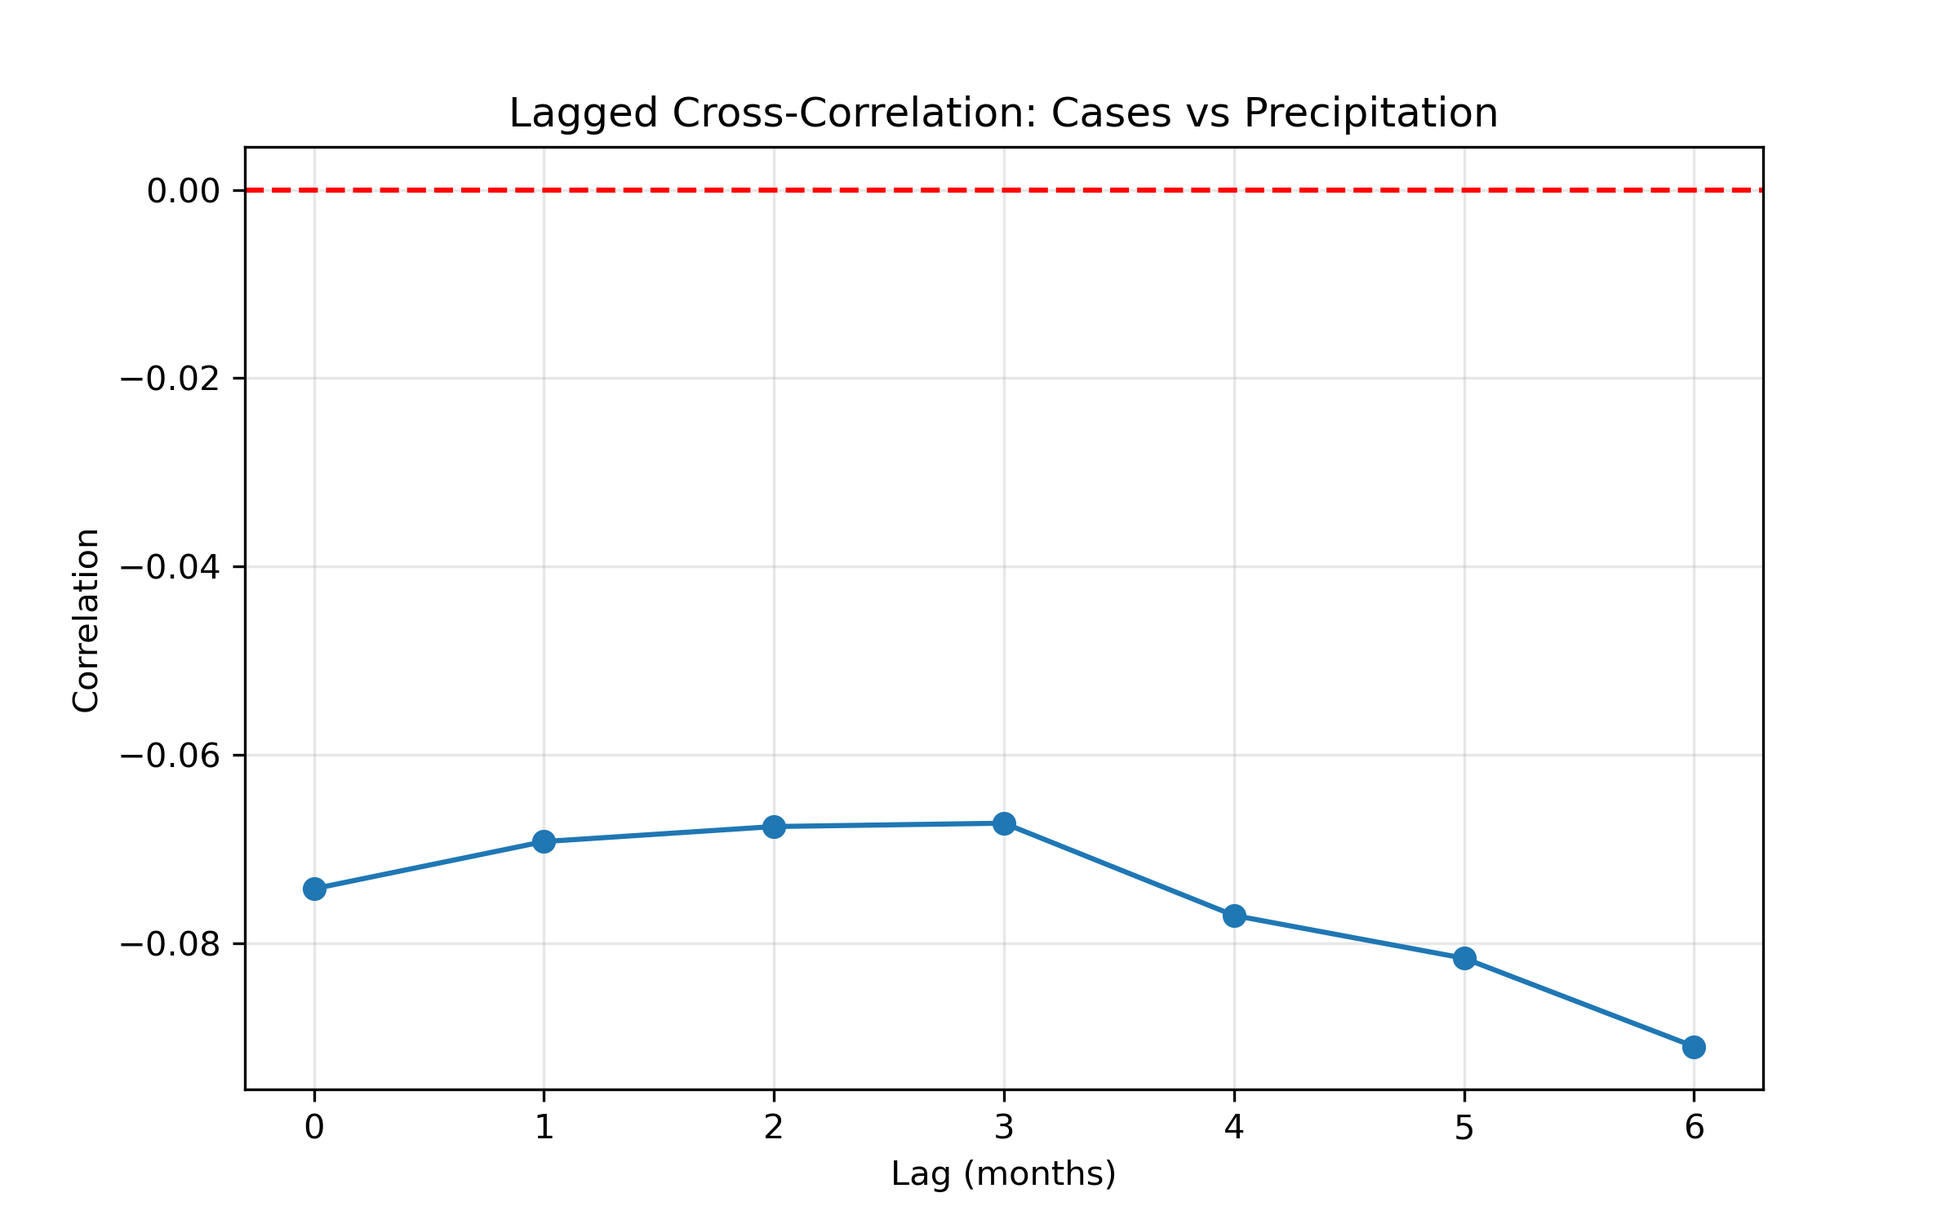
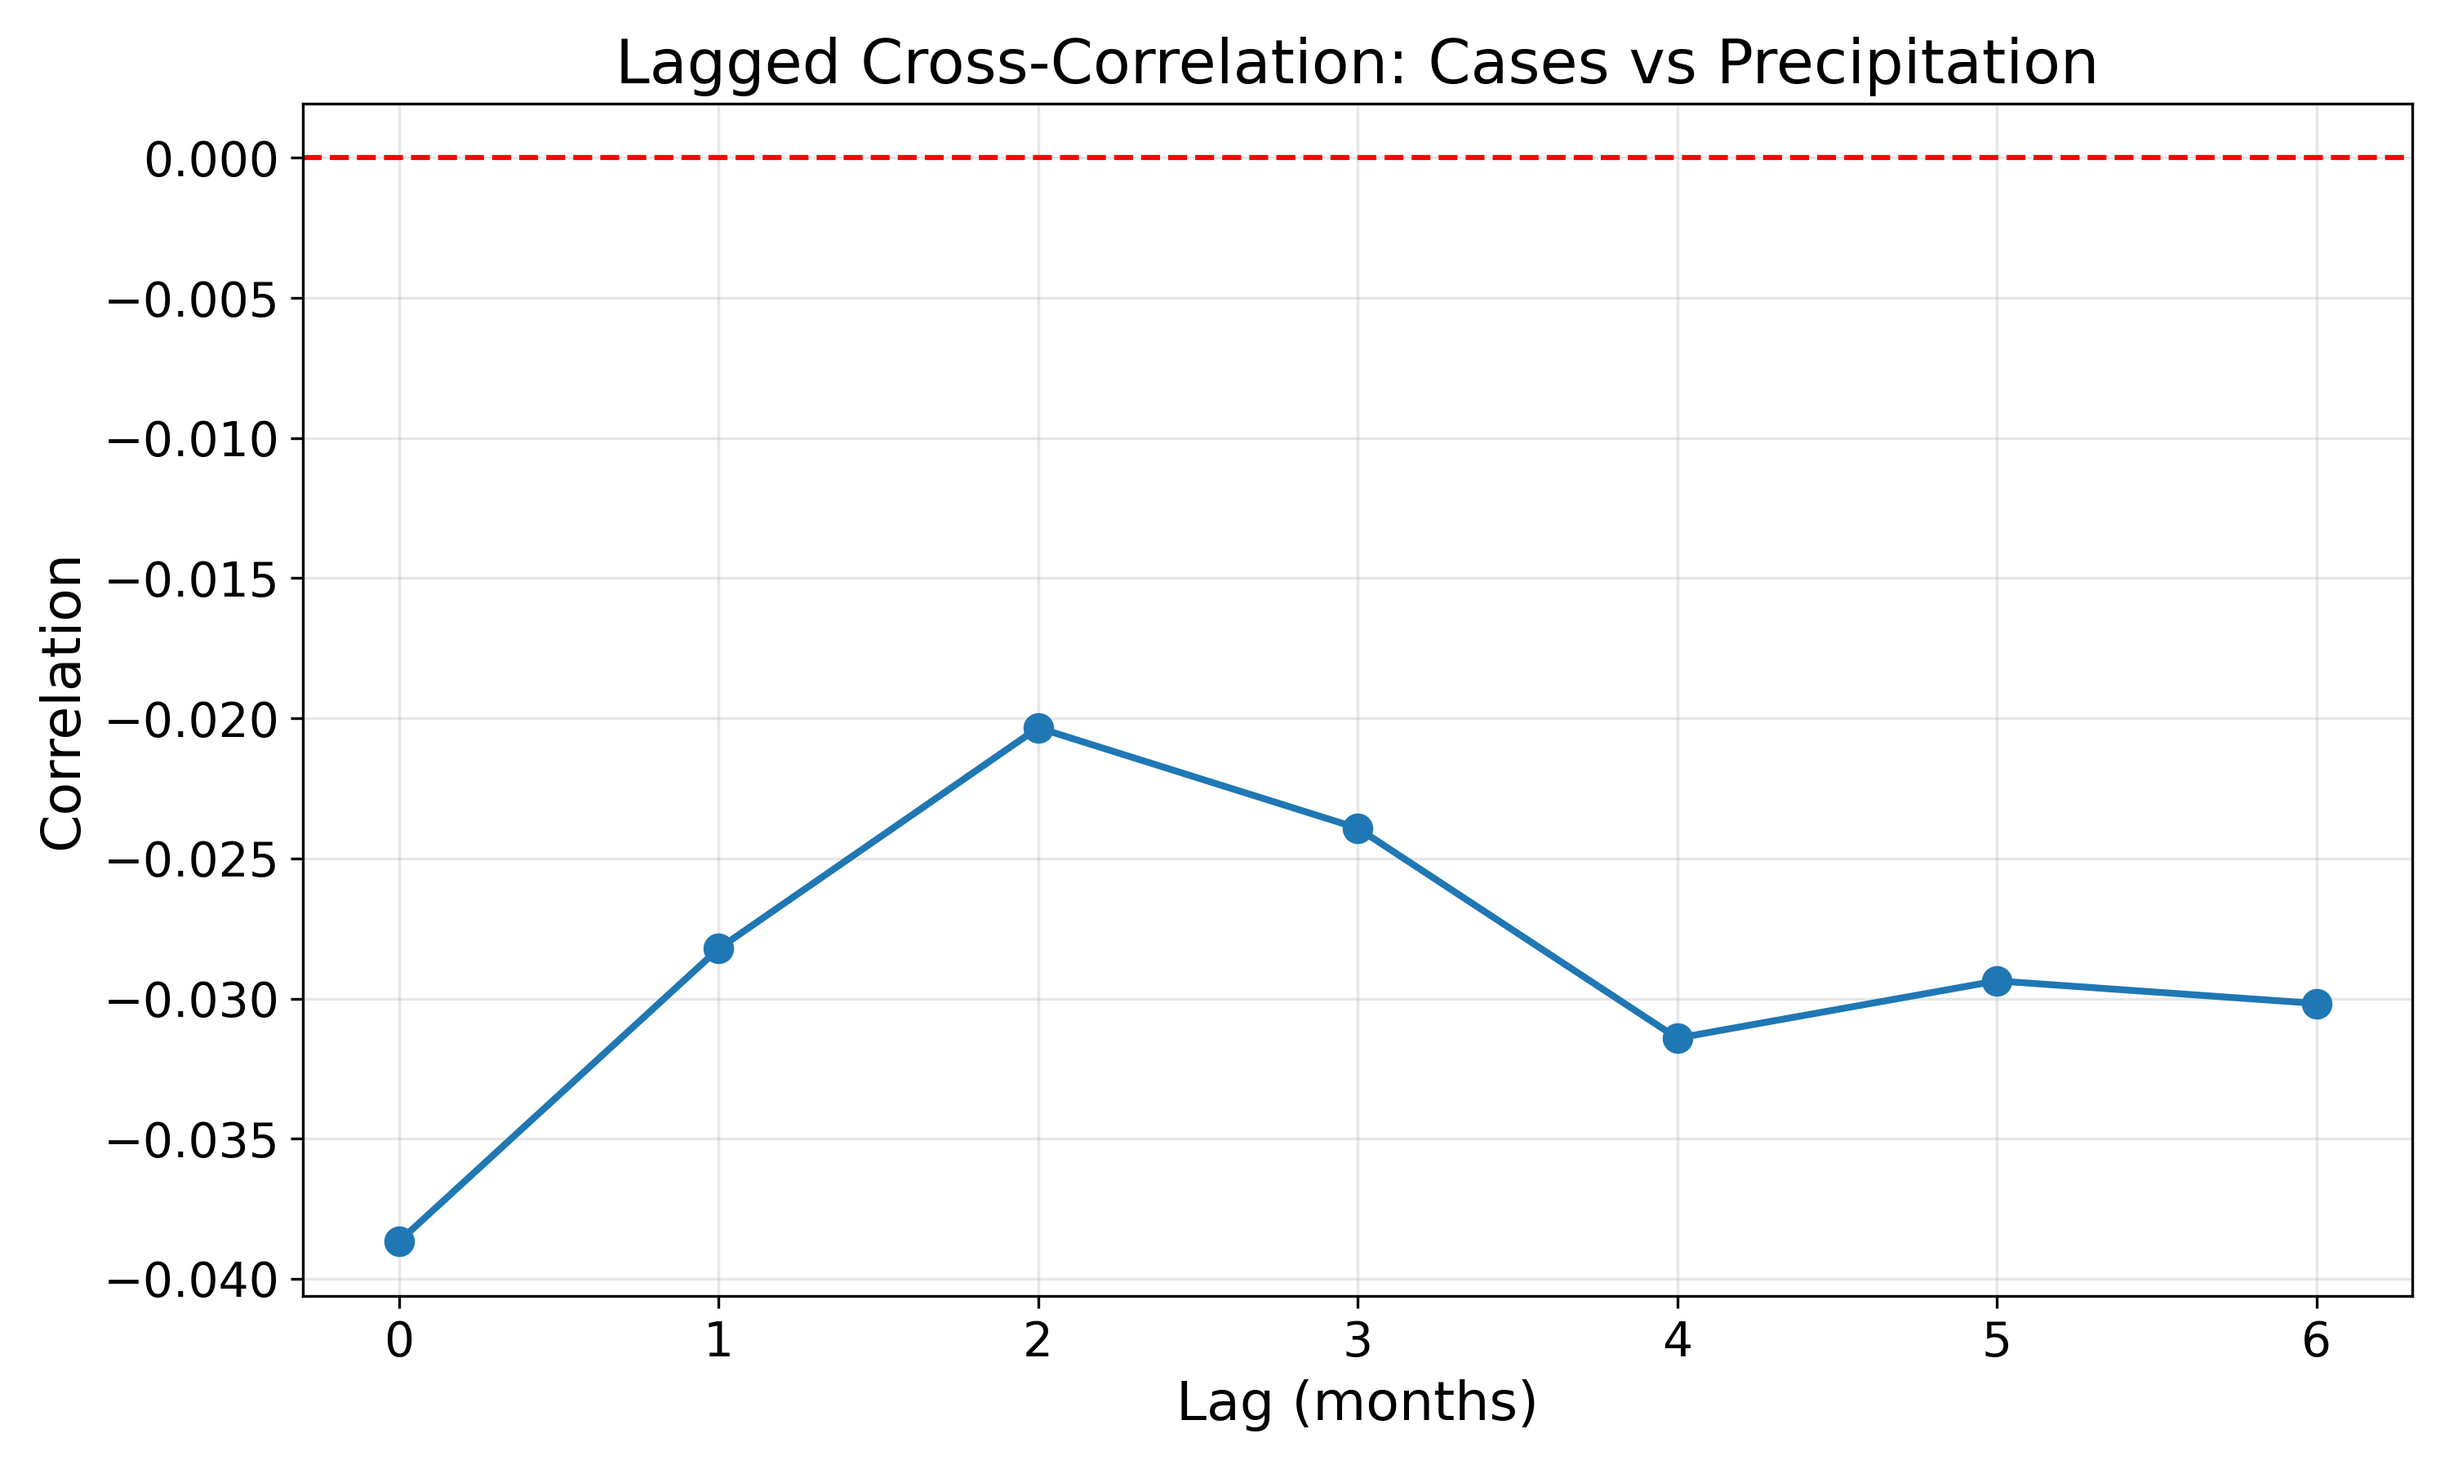
updating graphs

diff --git a/3_data_analysis.py b/3_data_analysis.py
@@ -15,30 +15,52 @@ corr_vars = [
     'total_cases','log_cases',
     'current_temperature','current_max_temperature','current_min_temperature',
     'current_diurnal_temperature_range',
-    'current_precipitation','satellite_precipiatation',
+    'current_precipitation',
     'current_specific_humidity',
     'vegetation_ne','vegetation_nw','vegetation_se','vegetation_sw',
     'forecast_precipitation','forecast_mean_temperature','forecast_relative_humidity'
 ]
 
+# create abbreviated names
+abbrev_names = {
+    'total_cases': 'Cases',
+    'log_cases': 'Log Cases',
+    'current_temperature': 'Temp',
+    'current_max_temperature': 'Max Temp',
+    'current_min_temperature': 'Min Temp',
+    'current_diurnal_temperature_range': 'DTR',
+    'current_precipitation': 'Precip',
+    'current_specific_humidity': 'Humidity',
+    'vegetation_ne': 'Veg NE',
+    'vegetation_nw': 'Veg NW',
+    'vegetation_se': 'Veg SE',
+    'vegetation_sw': 'Veg SW',
+    'forecast_precipitation': 'Fcst Precip',
+    'forecast_mean_temperature': 'Fcst Temp',
+    'forecast_relative_humidity': 'Fcst RH'
+}
+
 corr_matrix = df[corr_vars].corr()
-print(corr_matrix)
+corr_matrix = corr_matrix.rename(columns=abbrev_names, index=abbrev_names)
 
 corr_matrix.to_latex(
     "figures/corr_matrix.tex",
-    index=True,       # keep the is_outbreak index
-    float_format="%.2f"  # round floats to 2 decimals
+    index=False,
+    escape=False,
+    float_format="%.2f"
 )
 
 # correlation heatmap
+corr_matrix = df[corr_vars].corr()
 fig, ax = plt.subplots(figsize=(14, 10))
 sns.heatmap(corr_matrix, annot=False, cmap='coolwarm', center=0)
 ax.set_title("Correlation Matrix for Climate, Vegetation & Cases", fontsize=14)
 plt.tight_layout()
-plt.savefig("output/correlation_matrix.png", dpi=300)
+plt.savefig("figures/correlation_matrix.png", dpi=300)
 plt.show()
 
 # scatter matrix for highly correlated variables
+corr_matrix = df[corr_vars].corr()
 top_corr = (
     corr_matrix['total_cases']
     .abs()
@@ -50,7 +72,7 @@ top_corr = (
 
 # generate pairplot
 g = sns.pairplot(df[top_corr], diag_kind='kde')
-g.figure.subplots_adjust(top=0.92)   # <<< IMPORTANT
+g.figure.subplots_adjust(top=0.92)  
 g.figure.suptitle(
     "Pairplot of Top Variables Correlated with Total Cases",
     fontsize=16
@@ -84,83 +106,172 @@ plt.tight_layout()
 plt.savefig("figures/cases_by_season.png", dpi=300)
 plt.show()
 
-# 4. climate & vegtation relationships ----
-# vegatation
-fig, axes = plt.subplots(1, 4, figsize=(18, 5))
+# 4. climate & vegetation relationships ----
+title_size = 18
+label_size = 16
+tick_size = 14
 
-sns.regplot(ax=axes[0], data=df, x='vegetation_se', y='total_cases',
-            scatter_kws={'alpha':0.3}, line_kws={'color':'red'})
-axes[0].set_title("Vegetation SE vs Cases")
-axes[0].set_xlabel("Vegetation Index (NDVI)")
-axes[0].set_ylabel("Total Dengue Cases")
+fig, axes = plt.subplots(2, 2, figsize=(18, 10))  # Taller height for 2x2 grid
 
-sns.regplot(ax=axes[1], data=df, x='vegetation_sw', y='total_cases',
-            scatter_kws={'alpha':0.3}, line_kws={'color':'red'})
-axes[1].set_title("Vegetation SW vs Cases")
-axes[1].set_xlabel("Vegetation Index (NDVI)")
-axes[1].set_ylabel("Total Dengue Cases")
+# SE
+sns.regplot(
+    ax=axes[0, 0],
+    data=df,
+    x='vegetation_se',
+    y='total_cases',
+    scatter_kws={'alpha':0.3},
+    line_kws={'color':'red'}
+)
+axes[0, 0].set_title("Vegetation SE vs Cases", fontsize=title_size)
+axes[0, 0].set_xlabel("Vegetation Index (NDVI)", fontsize=label_size)
+axes[0, 0].set_ylabel("Total Dengue Cases", fontsize=label_size)
+axes[0, 0].tick_params(axis='both', labelsize=tick_size)
 
-sns.regplot(ax=axes[2], data=df, x='vegetation_ne', y='total_cases',
-            scatter_kws={'alpha':0.3}, line_kws={'color':'red'})
-axes[2].set_title("Vegetation NE vs Cases")
-axes[2].set_xlabel("Vegetation Index (NDVI)")
-axes[2].set_ylabel("Total Dengue Cases")
+# SW
+sns.regplot(
+    ax=axes[0, 1],
+    data=df,
+    x='vegetation_sw',
+    y='total_cases',
+    scatter_kws={'alpha':0.3},
+    line_kws={'color':'red'}
+)
+axes[0, 1].set_title("Vegetation SW vs Cases", fontsize=title_size)
+axes[0, 1].set_xlabel("Vegetation Index (NDVI)", fontsize=label_size)
+axes[0, 1].set_ylabel("Total Dengue Cases", fontsize=label_size)
+axes[0, 1].tick_params(axis='both', labelsize=tick_size)
 
-sns.regplot(ax=axes[3], data=df, x='vegetation_nw', y='total_cases',
-            scatter_kws={'alpha':0.3}, line_kws={'color':'red'})
-axes[3].set_title("Vegetation NW vs Cases")
-axes[3].set_xlabel("Vegetation Index (NDVI)")
-axes[3].set_ylabel("Total Dengue Cases")
+# NE
+sns.regplot(
+    ax=axes[1, 0],
+    data=df,
+    x='vegetation_ne',
+    y='total_cases',
+    scatter_kws={'alpha':0.3},
+    line_kws={'color':'red'}
+)
+axes[1, 0].set_title("Vegetation NE vs Cases", fontsize=title_size)
+axes[1, 0].set_xlabel("Vegetation Index (NDVI)", fontsize=label_size)
+axes[1, 0].set_ylabel("Total Dengue Cases", fontsize=label_size)
+axes[1, 0].tick_params(axis='both', labelsize=tick_size)
+
+# NW
+sns.regplot(
+    ax=axes[1, 1],
+    data=df,
+    x='vegetation_nw',
+    y='total_cases',
+    scatter_kws={'alpha':0.3},
+    line_kws={'color':'red'}
+)
+axes[1, 1].set_title("Vegetation NW vs Cases", fontsize=title_size)
+axes[1, 1].set_xlabel("Vegetation Index (NDVI)", fontsize=label_size)
+axes[1, 1].set_ylabel("Total Dengue Cases", fontsize=label_size)
+axes[1, 1].tick_params(axis='both', labelsize=tick_size)
 
 plt.tight_layout()
 plt.savefig("figures/vegetation_vs_cases.png", dpi=300)
 plt.show()
 
 # current temp, precip, and humidity
+title_size = 18
+label_size = 16
+tick_size = 14
+
 fig, axes = plt.subplots(1, 3, figsize=(18, 5))
 
-sns.regplot(ax=axes[0], data=df, x='current_precipitation', y='total_cases',
-            scatter_kws={'alpha':0.3}, line_kws={'color':'red'})
-axes[0].set_title("Current Precipitation vs Cases")
-axes[0].set_xlabel("Precipitation (mm)")
-axes[0].set_ylabel("Total Dengue Cases")
+sns.regplot(
+    ax=axes[0],
+    data=df,
+    x='current_precipitation',
+    y='total_cases',
+    scatter_kws={'alpha':0.3},
+    line_kws={'color':'red'}
+)
 
-sns.regplot(ax=axes[1], data=df, x='current_temperature', y='total_cases',
-            scatter_kws={'alpha':0.3}, line_kws={'color':'red'})
-axes[1].set_title("Current Temperature vs Cases")
-axes[1].set_xlabel("Temperature (°C)")
-axes[1].set_ylabel("Total Dengue Cases")
+axes[0].set_title("Current Precipitation vs Cases", fontsize=title_size)
+axes[0].set_xlabel("Precipitation (mm)", fontsize=label_size)
+axes[0].set_ylabel("Total Dengue Cases", fontsize=label_size)
+axes[0].tick_params(axis='both', labelsize=tick_size)
 
-sns.regplot(ax=axes[2], data=df, x='current_specific_humidity', y='total_cases',
-            scatter_kws={'alpha':0.3}, line_kws={'color':'red'})
-axes[2].set_title("Specific Humidity vs Cases")
-axes[2].set_xlabel("Specific Humidity (g/kg)")
-axes[2].set_ylabel("Total Dengue Cases")
+sns.regplot(
+    ax=axes[1],
+    data=df,
+    x='current_temperature',
+    y='total_cases',
+    scatter_kws={'alpha':0.3},
+    line_kws={'color':'red'}
+)
+
+axes[1].set_title("Current Temperature vs Cases", fontsize=title_size)
+axes[1].set_xlabel("Temperature (°C)", fontsize=label_size)
+axes[1].set_ylabel("Total Dengue Cases", fontsize=label_size)
+axes[1].tick_params(axis='both', labelsize=tick_size)
+
+sns.regplot(
+    ax=axes[2],
+    data=df,
+    x='current_specific_humidity',
+    y='total_cases',
+    scatter_kws={'alpha':0.3},
+    line_kws={'color':'red'}
+)
+
+axes[2].set_title("Specific Humidity vs Cases", fontsize=title_size)
+axes[2].set_xlabel("Specific Humidity (g/kg)", fontsize=label_size)
+axes[2].set_ylabel("Total Dengue Cases", fontsize=label_size)
+axes[2].tick_params(axis='both', labelsize=tick_size)
 
 plt.tight_layout()
 plt.savefig("figures/precip_temp_humidity_vs_cases.png", dpi=300)
 plt.show()
 
 # diurnal, max, and min temp
+# set font sizes
+title_size = 18
+label_size = 16
+tick_size = 14
+
 fig, axes = plt.subplots(1, 3, figsize=(18, 5))
 
-sns.regplot(ax=axes[0], data=df, x='current_diurnal_temperature_range', y='total_cases',
-            scatter_kws={'alpha':0.3}, line_kws={'color':'red'})
-axes[0].set_title("Diurnal Temperature Range vs Cases")
-axes[0].set_xlabel("Diurnal Temp Range (°C)")
-axes[0].set_ylabel("Total Dengue Cases")
+sns.regplot(
+    ax=axes[0],
+    data=df,
+    x='current_diurnal_temperature_range',
+    y='total_cases',
+    scatter_kws={'alpha':0.3},
+    line_kws={'color':'red'}
+)
+axes[0].set_title("Diurnal Temperature Range vs Cases", fontsize=title_size)
+axes[0].set_xlabel("Diurnal Temp Range (°C)", fontsize=label_size)
+axes[0].set_ylabel("Total Dengue Cases", fontsize=label_size)
+axes[0].tick_params(axis='both', labelsize=tick_size)
 
-sns.regplot(ax=axes[1], data=df, x='current_min_temperature', y='total_cases',
-            scatter_kws={'alpha':0.3}, line_kws={'color':'red'})
-axes[1].set_title("Min Temperature vs Cases")
-axes[1].set_xlabel("Minimum Temperature (°C)")
-axes[1].set_ylabel("Total Dengue Cases")
+sns.regplot(
+    ax=axes[1],
+    data=df,
+    x='current_min_temperature',
+    y='total_cases',
+    scatter_kws={'alpha':0.3},
+    line_kws={'color':'red'}
+)
+axes[1].set_title("Min Temperature vs Cases", fontsize=title_size)
+axes[1].set_xlabel("Minimum Temperature (°C)", fontsize=label_size)
+axes[1].set_ylabel("Total Dengue Cases", fontsize=label_size)
+axes[1].tick_params(axis='both', labelsize=tick_size)
 
-sns.regplot(ax=axes[2], data=df, x='current_max_temperature', y='total_cases',
-            scatter_kws={'alpha':0.3}, line_kws={'color':'red'})
-axes[2].set_title("Max Temperature vs Cases")
-axes[2].set_xlabel("Maximum Temperature (°C)")
-axes[2].set_ylabel("Total Dengue Cases")
+sns.regplot(
+    ax=axes[2],
+    data=df,
+    x='current_max_temperature',
+    y='total_cases',
+    scatter_kws={'alpha':0.3},
+    line_kws={'color':'red'}
+)
+axes[2].set_title("Max Temperature vs Cases", fontsize=title_size)
+axes[2].set_xlabel("Maximum Temperature (°C)", fontsize=label_size)
+axes[2].set_ylabel("Total Dengue Cases", fontsize=label_size)
+axes[2].tick_params(axis='both', labelsize=tick_size)
 
 plt.tight_layout()
 plt.savefig("figures/thermal_vars_vs_cases.png", dpi=300)
@@ -171,19 +282,31 @@ max_lag = 6
 lags = range(0, max_lag + 1)
 correlations = []
 
+# compute lagged correlations
 for lag in lags:
-    df_sorted = df.sort_values(["city","date"]).copy()
-    df_sorted['precip_lag'] = df_sorted.groupby('city')['current_precipitation'].shift(lag)
-    valid = df_sorted.dropna(subset=['total_cases','precip_lag'])
+    df_sorted = df.sort_values(["city", "date"]).copy()
+    df_sorted['precip_lag'] = df_sorted.groupby('city')['satellite_precipiatation'].shift(lag)
+    valid = df_sorted.dropna(subset=['total_cases', 'precip_lag'])
     correlations.append(valid['total_cases'].corr(valid['precip_lag']))
 
-plt.figure(figsize=(8,5))
-plt.plot(lags, correlations, '-o')
-plt.axhline(0, color='red', linestyle='--')
-plt.title("Lagged Cross-Correlation: Cases vs Precipitation")
-plt.xlabel("Lag (months)")
-plt.ylabel("Correlation")
+title_size = 18
+label_size = 16
+tick_size = 14
+
+plt.figure(figsize=(10, 6))
+plt.plot(lags, correlations, '-o', markersize=8, linewidth=2)
+
+plt.axhline(0, color='red', linestyle='--', linewidth=1.5)
+
+plt.title("Lagged Cross-Correlation: Cases vs Precipitation", fontsize=title_size)
+plt.xlabel("Lag (months)", fontsize=label_size)
+plt.ylabel("Correlation", fontsize=label_size)
+
+plt.xticks(fontsize=tick_size)
+plt.yticks(fontsize=tick_size)
+
 plt.grid(alpha=0.3)
+plt.tight_layout()
 plt.savefig("figures/lag_correlation_precip.png", dpi=300)
 plt.show()
 

diff --git a/figures/corr_matrix.tex b/figures/corr_matrix.tex
@@ -1,22 +1,21 @@
-\begin{tabular}{lrrrrrrrrrrrrrrrr}
+\begin{tabular}{rrrrrrrrrrrrrrr}
 \toprule
- & total_cases & log_cases & current_temperature & current_max_temperature & current_min_temperature & current_diurnal_temperature_range & current_precipitation & satellite_precipiatation & current_specific_humidity & vegetation_ne & vegetation_nw & vegetation_se & vegetation_sw & forecast_precipitation & forecast_mean_temperature & forecast_relative_humidity \\
+Cases & Log Cases & Temp & Max Temp & Min Temp & DTR & Precip & Humidity & Veg NE & Veg NW & Veg SE & Veg SW & Fcst Precip & Fcst Temp & Fcst RH \\
 \midrule
-total_cases & 1.00 & 0.70 & 0.12 & -0.04 & 0.27 & -0.24 & -0.07 & -0.04 & 0.13 & -0.16 & -0.14 & -0.12 & -0.14 & -0.01 & 0.26 & -0.13 \\
-log_cases & 0.70 & 1.00 & 0.05 & -0.22 & 0.39 & -0.46 & -0.13 & -0.09 & 0.15 & -0.35 & -0.32 & -0.27 & -0.31 & -0.04 & 0.38 & -0.24 \\
-current_temperature & 0.12 & 0.05 & 1.00 & 0.76 & 0.62 & 0.30 & 0.06 & 0.22 & 0.74 & 0.17 & 0.20 & 0.09 & 0.12 & 0.15 & 0.61 & 0.24 \\
-current_max_temperature & -0.04 & -0.22 & 0.76 & 1.00 & 0.14 & 0.71 & 0.17 & 0.30 & 0.52 & 0.45 & 0.48 & 0.29 & 0.37 & 0.20 & 0.23 & 0.39 \\
-current_min_temperature & 0.27 & 0.39 & 0.62 & 0.14 & 1.00 & -0.43 & -0.05 & 0.08 & 0.62 & -0.29 & -0.30 & -0.25 & -0.29 & 0.06 & 0.72 & -0.04 \\
-current_diurnal_temperature_range & -0.24 & -0.46 & 0.30 & 0.71 & -0.43 & 1.00 & 0.18 & 0.19 & 0.08 & 0.62 & 0.63 & 0.44 & 0.53 & 0.14 & -0.26 & 0.40 \\
-current_precipitation & -0.07 & -0.13 & 0.06 & 0.17 & -0.05 & 0.18 & 1.00 & 0.48 & 0.25 & 0.23 & 0.22 & 0.13 & 0.16 & 0.35 & -0.17 & 0.45 \\
-satellite_precipiatation & -0.04 & -0.09 & 0.22 & 0.30 & 0.08 & 0.19 & 0.48 & 1.00 & 0.45 & 0.19 & 0.19 & 0.07 & 0.12 & 0.48 & -0.02 & 0.50 \\
-current_specific_humidity & 0.13 & 0.15 & 0.74 & 0.52 & 0.62 & 0.08 & 0.25 & 0.45 & 1.00 & 0.09 & 0.10 & 0.03 & 0.05 & 0.45 & 0.51 & 0.58 \\
-vegetation_ne & -0.16 & -0.35 & 0.17 & 0.45 & -0.29 & 0.62 & 0.23 & 0.19 & 0.09 & 1.00 & 0.81 & 0.59 & 0.64 & 0.19 & -0.32 & 0.44 \\
-vegetation_nw & -0.14 & -0.32 & 0.20 & 0.48 & -0.30 & 0.63 & 0.22 & 0.19 & 0.10 & 0.81 & 1.00 & 0.55 & 0.65 & 0.19 & -0.31 & 0.44 \\
-vegetation_se & -0.12 & -0.27 & 0.09 & 0.29 & -0.25 & 0.44 & 0.13 & 0.07 & 0.03 & 0.59 & 0.55 & 1.00 & 0.82 & 0.03 & -0.16 & 0.21 \\
-vegetation_sw & -0.14 & -0.31 & 0.12 & 0.37 & -0.29 & 0.53 & 0.16 & 0.12 & 0.05 & 0.64 & 0.65 & 0.82 & 1.00 & 0.10 & -0.23 & 0.31 \\
-forecast_precipitation & -0.01 & -0.04 & 0.15 & 0.20 & 0.06 & 0.14 & 0.35 & 0.48 & 0.45 & 0.19 & 0.19 & 0.03 & 0.10 & 1.00 & -0.13 & 0.59 \\
-forecast_mean_temperature & 0.26 & 0.38 & 0.61 & 0.23 & 0.72 & -0.26 & -0.17 & -0.02 & 0.51 & -0.32 & -0.31 & -0.16 & -0.23 & -0.13 & 1.00 & -0.40 \\
-forecast_relative_humidity & -0.13 & -0.24 & 0.24 & 0.39 & -0.04 & 0.40 & 0.45 & 0.50 & 0.58 & 0.44 & 0.44 & 0.21 & 0.31 & 0.59 & -0.40 & 1.00 \\
+1.00 & 0.70 & 0.12 & -0.04 & 0.27 & -0.24 & -0.07 & 0.13 & -0.16 & -0.14 & -0.12 & -0.14 & -0.01 & 0.26 & -0.13 \\
+0.70 & 1.00 & 0.05 & -0.22 & 0.39 & -0.46 & -0.13 & 0.15 & -0.35 & -0.32 & -0.27 & -0.31 & -0.04 & 0.38 & -0.24 \\
+0.12 & 0.05 & 1.00 & 0.76 & 0.62 & 0.30 & 0.06 & 0.74 & 0.17 & 0.20 & 0.09 & 0.12 & 0.15 & 0.61 & 0.24 \\
+-0.04 & -0.22 & 0.76 & 1.00 & 0.14 & 0.71 & 0.17 & 0.52 & 0.45 & 0.48 & 0.29 & 0.37 & 0.20 & 0.23 & 0.39 \\
+0.27 & 0.39 & 0.62 & 0.14 & 1.00 & -0.43 & -0.05 & 0.62 & -0.29 & -0.30 & -0.25 & -0.29 & 0.06 & 0.72 & -0.04 \\
+-0.24 & -0.46 & 0.30 & 0.71 & -0.43 & 1.00 & 0.18 & 0.08 & 0.62 & 0.63 & 0.44 & 0.53 & 0.14 & -0.26 & 0.40 \\
+-0.07 & -0.13 & 0.06 & 0.17 & -0.05 & 0.18 & 1.00 & 0.25 & 0.23 & 0.22 & 0.13 & 0.16 & 0.35 & -0.17 & 0.45 \\
+0.13 & 0.15 & 0.74 & 0.52 & 0.62 & 0.08 & 0.25 & 1.00 & 0.09 & 0.10 & 0.03 & 0.05 & 0.45 & 0.51 & 0.58 \\
+-0.16 & -0.35 & 0.17 & 0.45 & -0.29 & 0.62 & 0.23 & 0.09 & 1.00 & 0.81 & 0.59 & 0.64 & 0.19 & -0.32 & 0.44 \\
+-0.14 & -0.32 & 0.20 & 0.48 & -0.30 & 0.63 & 0.22 & 0.10 & 0.81 & 1.00 & 0.55 & 0.65 & 0.19 & -0.31 & 0.44 \\
+-0.12 & -0.27 & 0.09 & 0.29 & -0.25 & 0.44 & 0.13 & 0.03 & 0.59 & 0.55 & 1.00 & 0.82 & 0.03 & -0.16 & 0.21 \\
+-0.14 & -0.31 & 0.12 & 0.37 & -0.29 & 0.53 & 0.16 & 0.05 & 0.64 & 0.65 & 0.82 & 1.00 & 0.10 & -0.23 & 0.31 \\
+-0.01 & -0.04 & 0.15 & 0.20 & 0.06 & 0.14 & 0.35 & 0.45 & 0.19 & 0.19 & 0.03 & 0.10 & 1.00 & -0.13 & 0.59 \\
+0.26 & 0.38 & 0.61 & 0.23 & 0.72 & -0.26 & -0.17 & 0.51 & -0.32 & -0.31 & -0.16 & -0.23 & -0.13 & 1.00 & -0.40 \\
+-0.13 & -0.24 & 0.24 & 0.39 & -0.04 & 0.40 & 0.45 & 0.58 & 0.44 & 0.44 & 0.21 & 0.31 & 0.59 & -0.40 & 1.00 \\
 \bottomrule
 \end{tabular}
